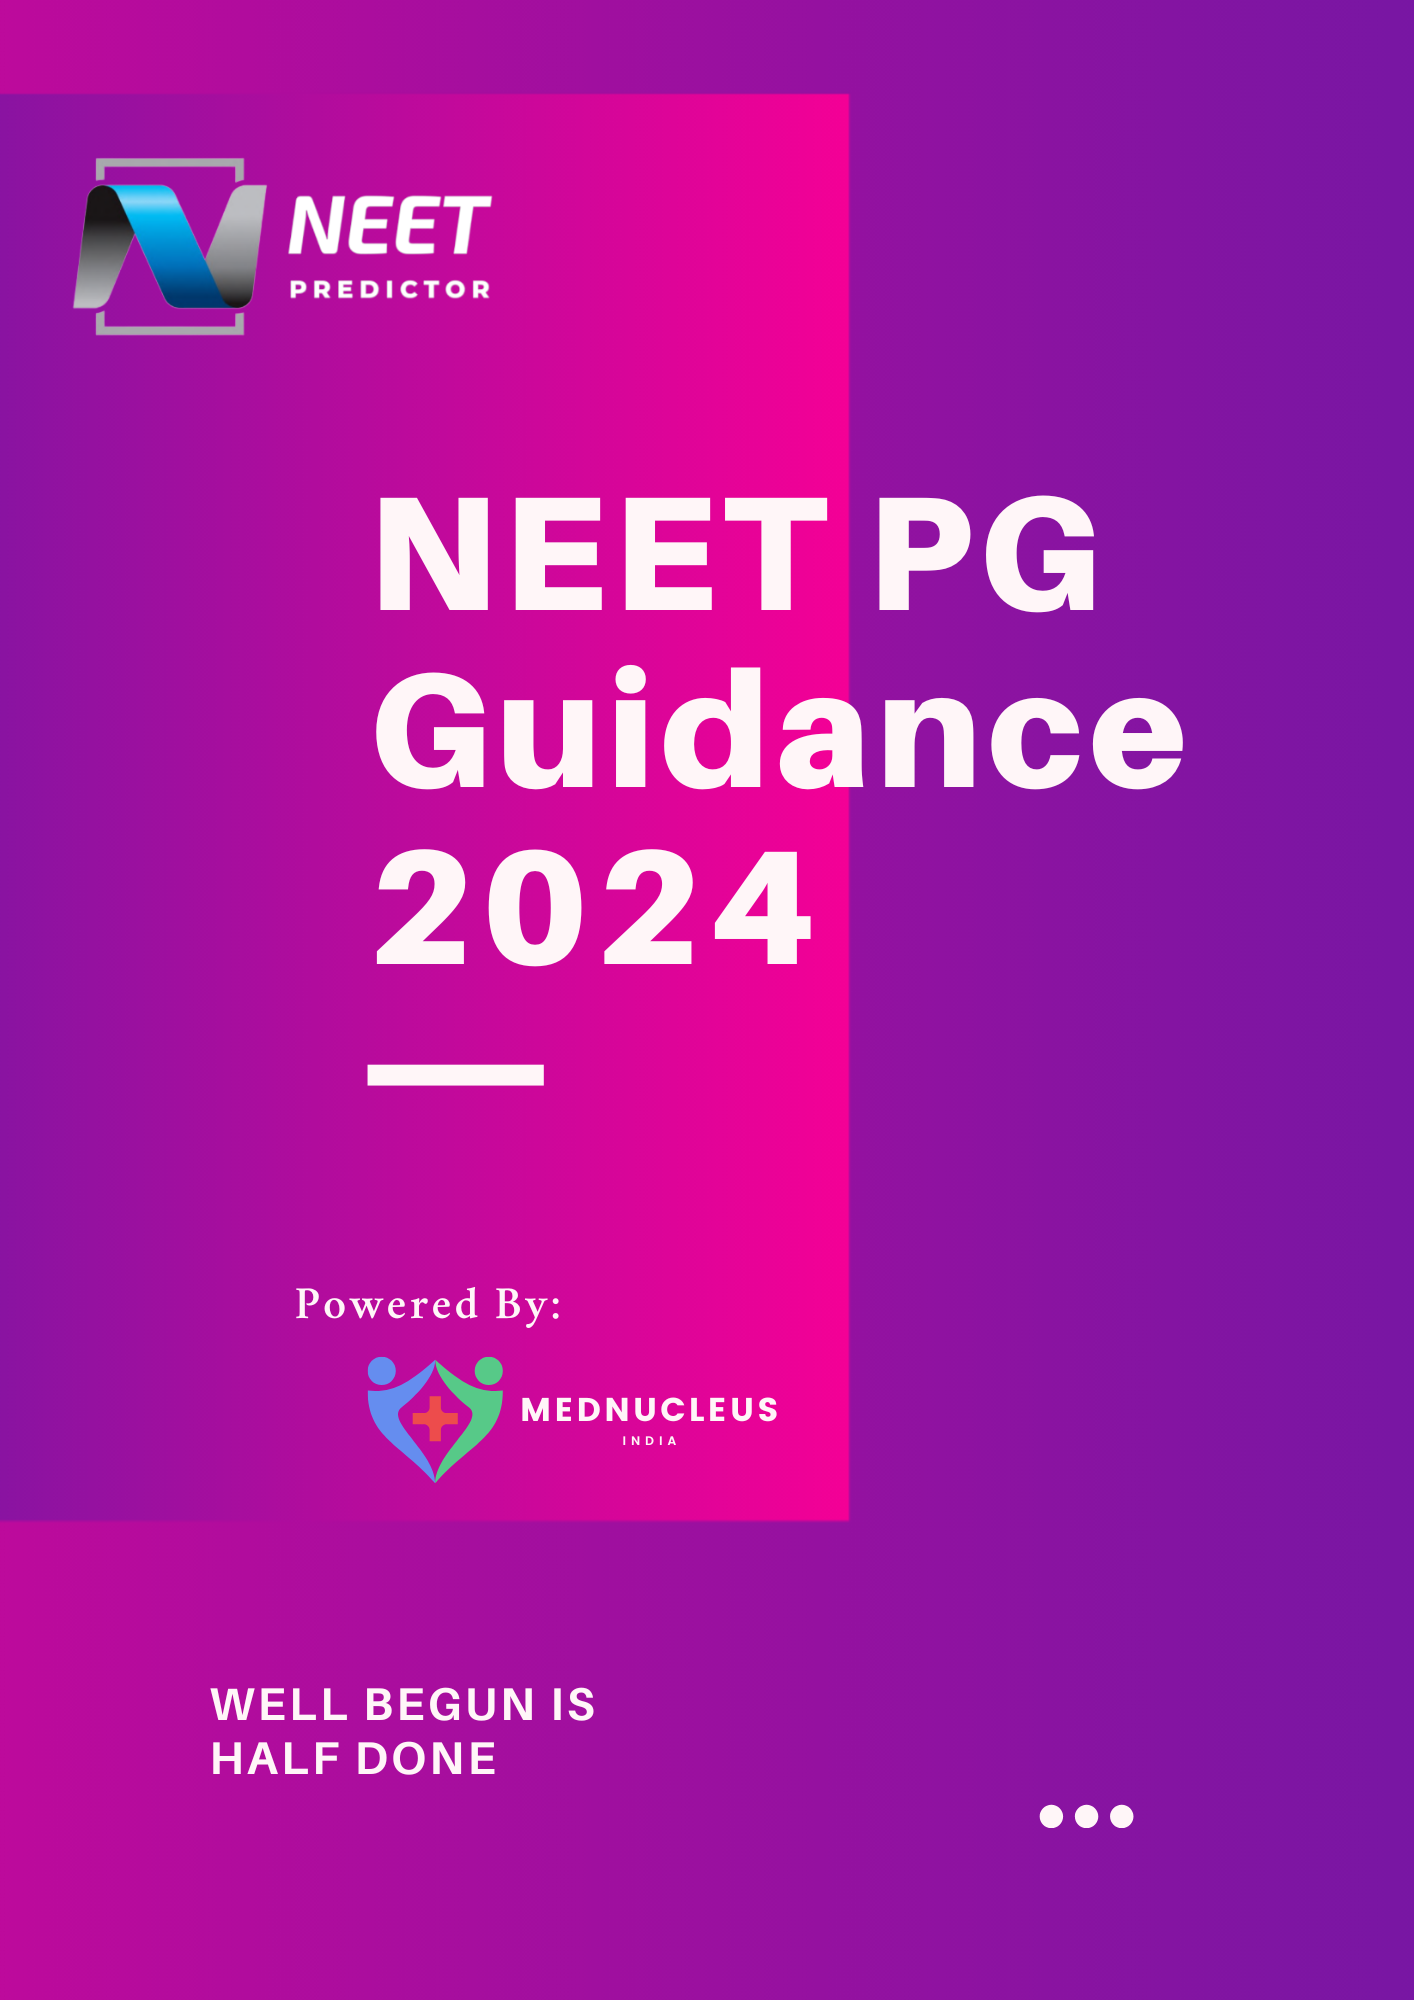
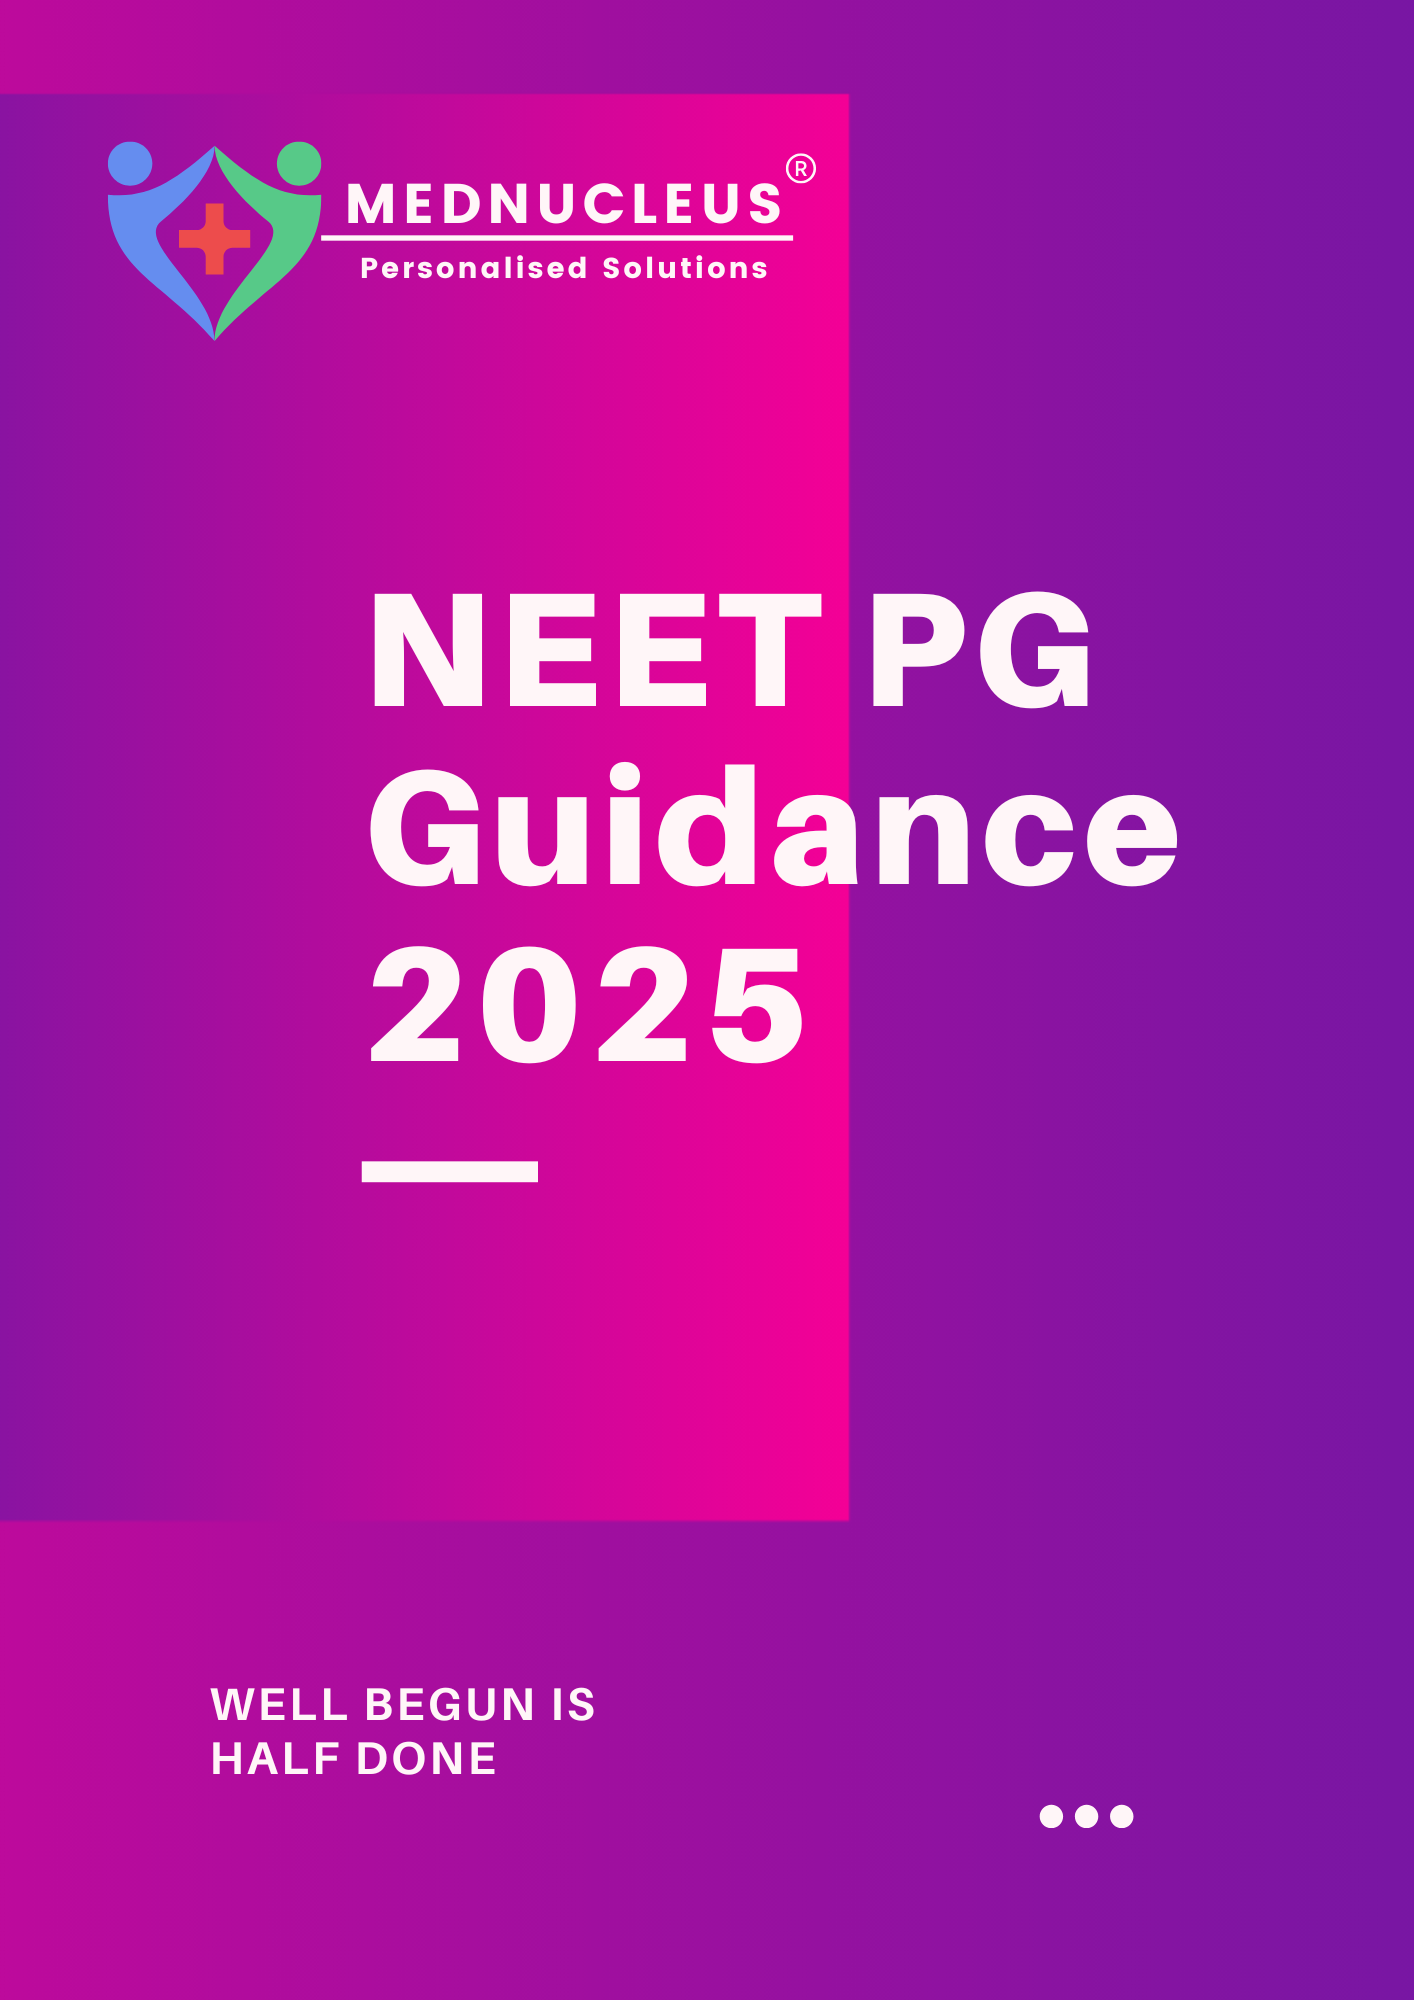
adding bk pic

diff --git a/app.py b/app.py
@@ -110,11 +110,11 @@ def download_pdf():
       pdf = FPDF()
       pdf.add_page()
       
-      pdf.image("C:/Users/hares/Downloads/Mednucleus/Mednucleus-neet-predictor/static/First_Page.png",0,0,pdf.w,pdf.h)
+      pdf.image("C:/Users/hares/Downloads/Mednucleus/Mednucleus-neet-predictor B2C - simplified version/static/First_Page.png",0,0,pdf.w,pdf.h)
       pdf.set_fill_color(230, 230, 230) 
       pdf.set_font("Arial", size = 12)
       pdf.set_text_color(255, 255, 255)
-      pdf.image("C:/Users/hares/Downloads/Mednucleus/Mednucleus-neet-predictor/static/Mid_pages.png",0,0,pdf.w,pdf.h)
+      pdf.image("C:/Users/hares/Downloads/Mednucleus/Mednucleus-neet-predictor B2C - simplified version/static/Mid_pages.png",0,0,pdf.w,pdf.h)
       # Example table data
       table_data = request.form.get("data_input")
       table_data=ast.literal_eval(table_data)
@@ -129,7 +129,7 @@ def download_pdf():
       # Add table headers
       pdf.set_font("Arial", size = 12)
       pdf.add_page()
-      pdf.image("C:/Users/hares/Downloads/Mednucleus/Mednucleus-neet-predictor/static/Mid_pages.png",0,0,pdf.w,pdf.h)
+      pdf.image("C:/Users/hares/Downloads/Mednucleus/Mednucleus-neet-predictor B2C - simplified version/static/Mid_pages.png",0,0,pdf.w,pdf.h)
       pdf.set_font("Arial", 'B', 12)
       pdf.cell(50, 10,"College Seat Details")
       pdf.ln()
@@ -164,7 +164,7 @@ def download_pdf():
       pdf.cell(100, 10,stipend, border=1)
       pdf.ln()
       pdf.add_page()
-      pdf.image("C:/Users/hares/Downloads/Mednucleus/Mednucleus-neet-predictor/static/Mid_pages.png",0,0,pdf.w,pdf.h)
+      pdf.image("C:/Users/hares/Downloads/Mednucleus/Mednucleus-neet-predictor B2C - simplified version/static/Mid_pages.png",0,0,pdf.w,pdf.h)
       count=0
       for row in table_data:
          count=count+1
@@ -185,13 +185,13 @@ def download_pdf():
          if count ==len(table_data):
             break
          pdf.add_page()
-         pdf.image("C:/Users/hares/Downloads/Mednucleus/Mednucleus-neet-predictor/static/Mid_pages.png",0,0,pdf.w,pdf.h)
+         pdf.image("C:/Users/hares/Downloads/Mednucleus/Mednucleus-neet-predictor B2C - simplified version/static/Mid_pages.png",0,0,pdf.w,pdf.h)
          pdf.set_font("Arial", size=12)
          pdf.cell(50, 20,"College Parameters", border=1)
          pdf.cell(100, 20, "Details", border=1)
          pdf.ln()
       pdf.add_page()
-      pdf.image("C:/Users/hares/Downloads/Mednucleus/Mednucleus-neet-predictor/static/Last_Page.png",0,0,pdf.w,pdf.h)
+      pdf.image("C:/Users/hares/Downloads/Mednucleus/Mednucleus-neet-predictor B2C - simplified version/static/Last_Page.png",0,0,pdf.w,pdf.h)
       # Save the PDF to a BytesIO object
 
       with tempfile.NamedTemporaryFile(delete=False, suffix='.pdf') as temp_file:
@@ -217,10 +217,10 @@ def download_pdf_list():
    
       pdf = FPDF()
       pdf.add_page()
-      pdf.image("C:/Users/hares/Downloads/Mednucleus/Mednucleus-neet-predictor/static/First_Page.png",0,0,pdf.w,pdf.h)
+      pdf.image("C:/Users/hares/Downloads/Mednucleus/Mednucleus-neet-predictor B2C - simplified version/static/First_Page.png",0,0,pdf.w,pdf.h)
       pdf.add_page()
       pdf.set_text_color(255, 255, 255)
-      pdf.image("C:/Users/hares/Downloads/Mednucleus/Mednucleus-neet-predictor/static/Mid_pages.png",0,0,pdf.w,pdf.h)
+      pdf.image("C:/Users/hares/Downloads/Mednucleus/Mednucleus-neet-predictor B2C - simplified version/static/Mid_pages.png",0,0,pdf.w,pdf.h)
       pdf.set_font("Arial", size = 12)
       # Example table data
       table_data = request.form.get("data_input")
@@ -251,7 +251,7 @@ def download_pdf_list():
       pdf.cell(50, 10, p_6, border=1)
       pdf.ln()
       pdf.add_page()
-      pdf.image("C:/Users/hares/Downloads/Mednucleus/Mednucleus-neet-predictor/static/Mid_pages.png",0,0,pdf.w,pdf.h)
+      pdf.image("C:/Users/hares/Downloads/Mednucleus/Mednucleus-neet-predictor B2C - simplified version/static/Mid_pages.png",0,0,pdf.w,pdf.h)
       pdf.cell(40, 10,"Personalised College Mapping")
       pdf.ln()
       pdf.set_font("Arial", 'B', 12)
@@ -273,7 +273,7 @@ def download_pdf_list():
 
       # Save the PDF to a BytesIO object
       pdf.add_page()
-      pdf.image("C:/Users/hares/Downloads/Mednucleus/Mednucleus-neet-predictor/static/Last_Page.png",0,0,pdf.w,pdf.h)
+      pdf.image("C:/Users/hares/Downloads/Mednucleus/Mednucleus-neet-predictor B2C - simplified version/static/Last_Page.png",0,0,pdf.w,pdf.h)
       with tempfile.NamedTemporaryFile(delete=False, suffix='.pdf') as temp_file:
          pdf.output(temp_file.name)
          temp_file.seek(0)
